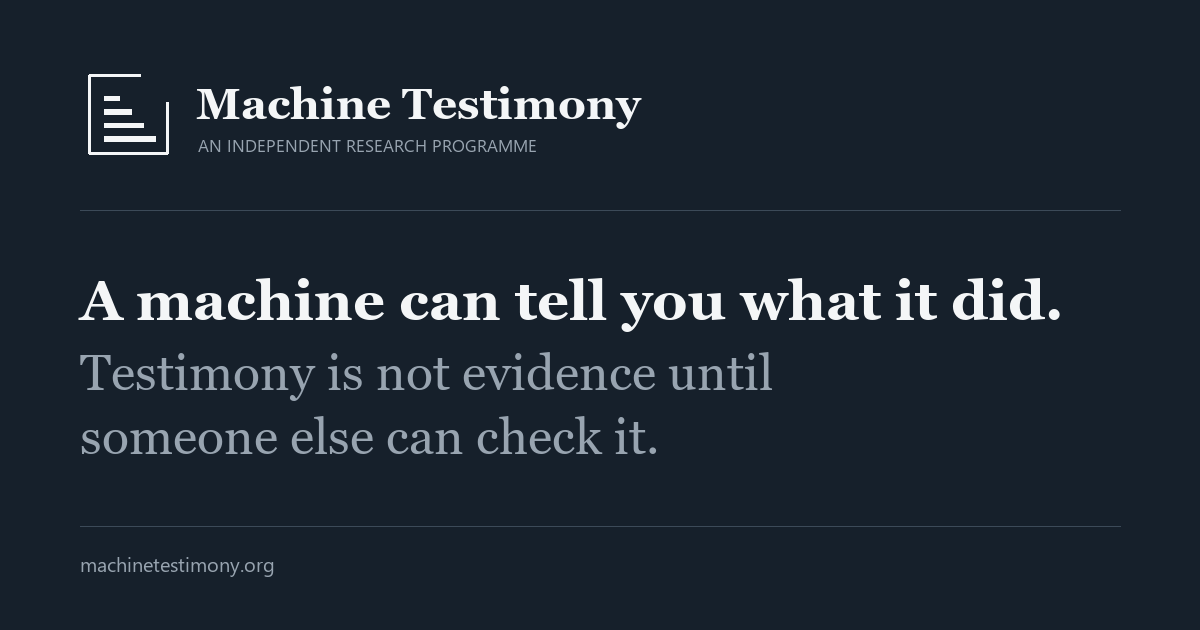
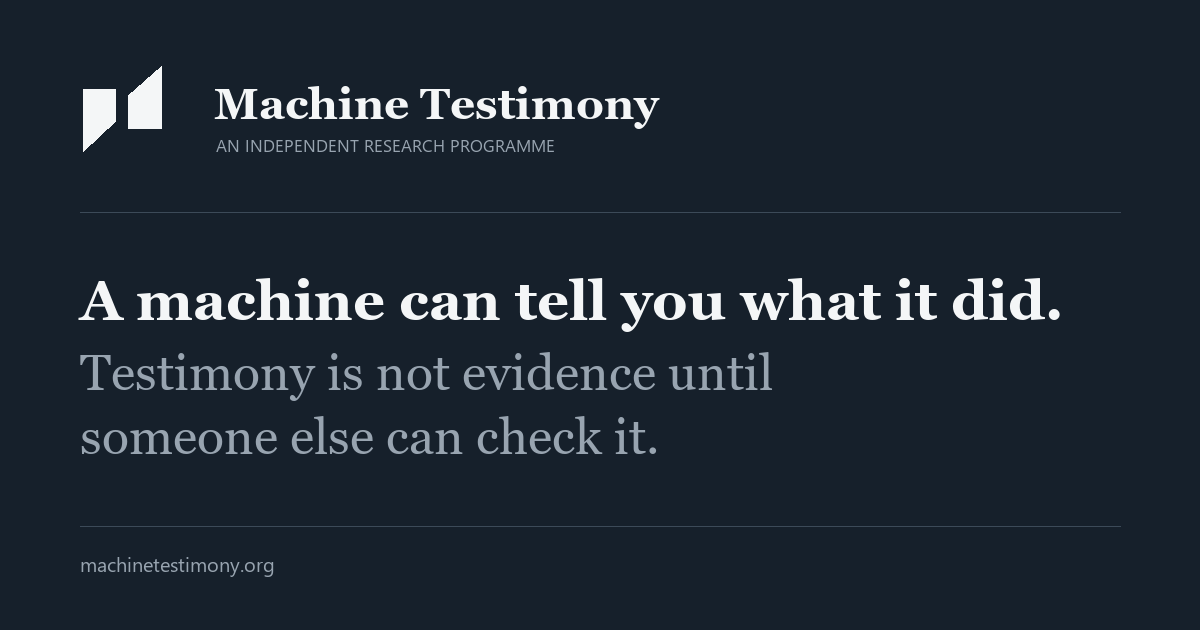
A mark that identifies rather than describes
The four rules in a frame described the work and identified nobody. A document
with lines on it is one of the most drawn icons there is, and a mark that has
to be explained before it means anything is not doing the job.

An opening quotation mark and a closing one, facing each other. Testimony is
an account, which is why it is a quote mark at all. They face inward because
the record keeps both sides: a conflict names at least two sides and both are
retained, which is exactly what TR-2 asks for. A conventional double quote
would have said the first half and not the second, and would have looked like
every other quote mark.

Three candidates were rendered at 96, 64, 48, 32, 24 and 16 pixels on both
grounds before choosing, because a mark that only works at presentation size
is a picture. An earlier idea, one glyph solid and one outlined, was dropped
for being clever at large sizes and mud at small ones.

The icon, favicon and social card are generated from the same four coordinates
as the SVG rather than drawn separately, so they cannot drift apart, and the
SVG uses currentColor so it inverts with the theme instead of needing a second
file.

Changed region(s): [[0.0617, 0.1206, 0.555, 0.2714], [0.0925, 0.3317, 0.925, 0.3619]]

diff --git a/public/index.html b/public/index.html
@@ -64,7 +64,7 @@
   .band{background:var(--band);color:var(--band-ink)}
   .band a{color:var(--band-ink)}
   .lockup{display:flex;align-items:center;gap:16px;padding:26px 0 20px;flex-wrap:wrap}
-  .lockup .mark{width:38px;height:38px;flex:none;color:var(--band-ink)}
+  .lockup .mark{width:34px;height:34px;flex:none;color:var(--band-ink)}
   .lockup .name{
     font-family:var(--display);font-weight:600;font-size:23px;letter-spacing:.005em;
     color:var(--band-ink);line-height:1;
@@ -174,14 +174,11 @@
   <div class="wrap">
     <div class="lockup">
       <svg class="mark" viewBox="0 0 64 64" aria-hidden="true">
-        <g fill="none" stroke="currentColor" stroke-width="2.5">
-          <path d="M6 6 H40 M6 6 V58 H58 V24"/>
-        </g>
         <g fill="currentColor">
-          <rect x="16" y="20" width="10" height="3"/>
-          <rect x="16" y="29" width="18" height="3"/>
-          <rect x="16" y="38" width="26" height="3"/>
-          <rect x="16" y="47" width="34" height="3"/>
+          <rect x="2" y="18" width="20" height="20"/>
+          <polygon points="2,38 22,38 2,56"/>
+          <rect x="30" y="22" width="20" height="20"/>
+          <polygon points="50,22 30,22 50,4"/>
         </g>
       </svg>
       <div class="name">Machine&nbsp;Testimony</div>

diff --git a/README.md b/README.md
@@ -19,19 +19,21 @@ wrangler.jsonc  how it deploys: an assets-only Worker, no code
 
 ## The mark
 
-Four rules of increasing length inside a frame left open at the top right. The
-rules are the conformance levels, each containing the ones before it; the open
-corner is there because a record that cannot be added to is not a record.
+An opening quotation mark and a closing one, facing each other.
 
-One colour, so it survives an embossing, a fax and a favicon. Below about
-24 pixels the frame and the fourth rule become noise, so `mark-solid.svg` drops
-to three heavier rules and no frame. Nothing here is decorative: the mark is
-the one shape this work already owned.
+Testimony is an account, which is why it is a quote mark at all. The two face
+inward because the record keeps both sides: a conflict names at least two
+sides and both are retained, which is what TR-2 asks for. A conventional
+double quote would have said the first half and not the second, and it would
+have looked like every other quote mark.
 
-The split matters. Pointing the asset directory at the repository root packaged
-108 files out of a directory holding eight, because git internals and this
-readme are also files. `public/` makes what is published exactly what is meant
-to be.
+One colour, no frame, and it still reads at sixteen pixels, which is where
+most marks stop being a shape and start being a smudge. The icon, the favicon
+and the social card are generated from the same four coordinates as the SVG
+rather than drawn separately, so they cannot drift apart.
+
+`public/brand/mark.svg` uses `currentColor`, so it inverts with the theme
+instead of needing a second file.
 
 ## Why it is its own repository
 
